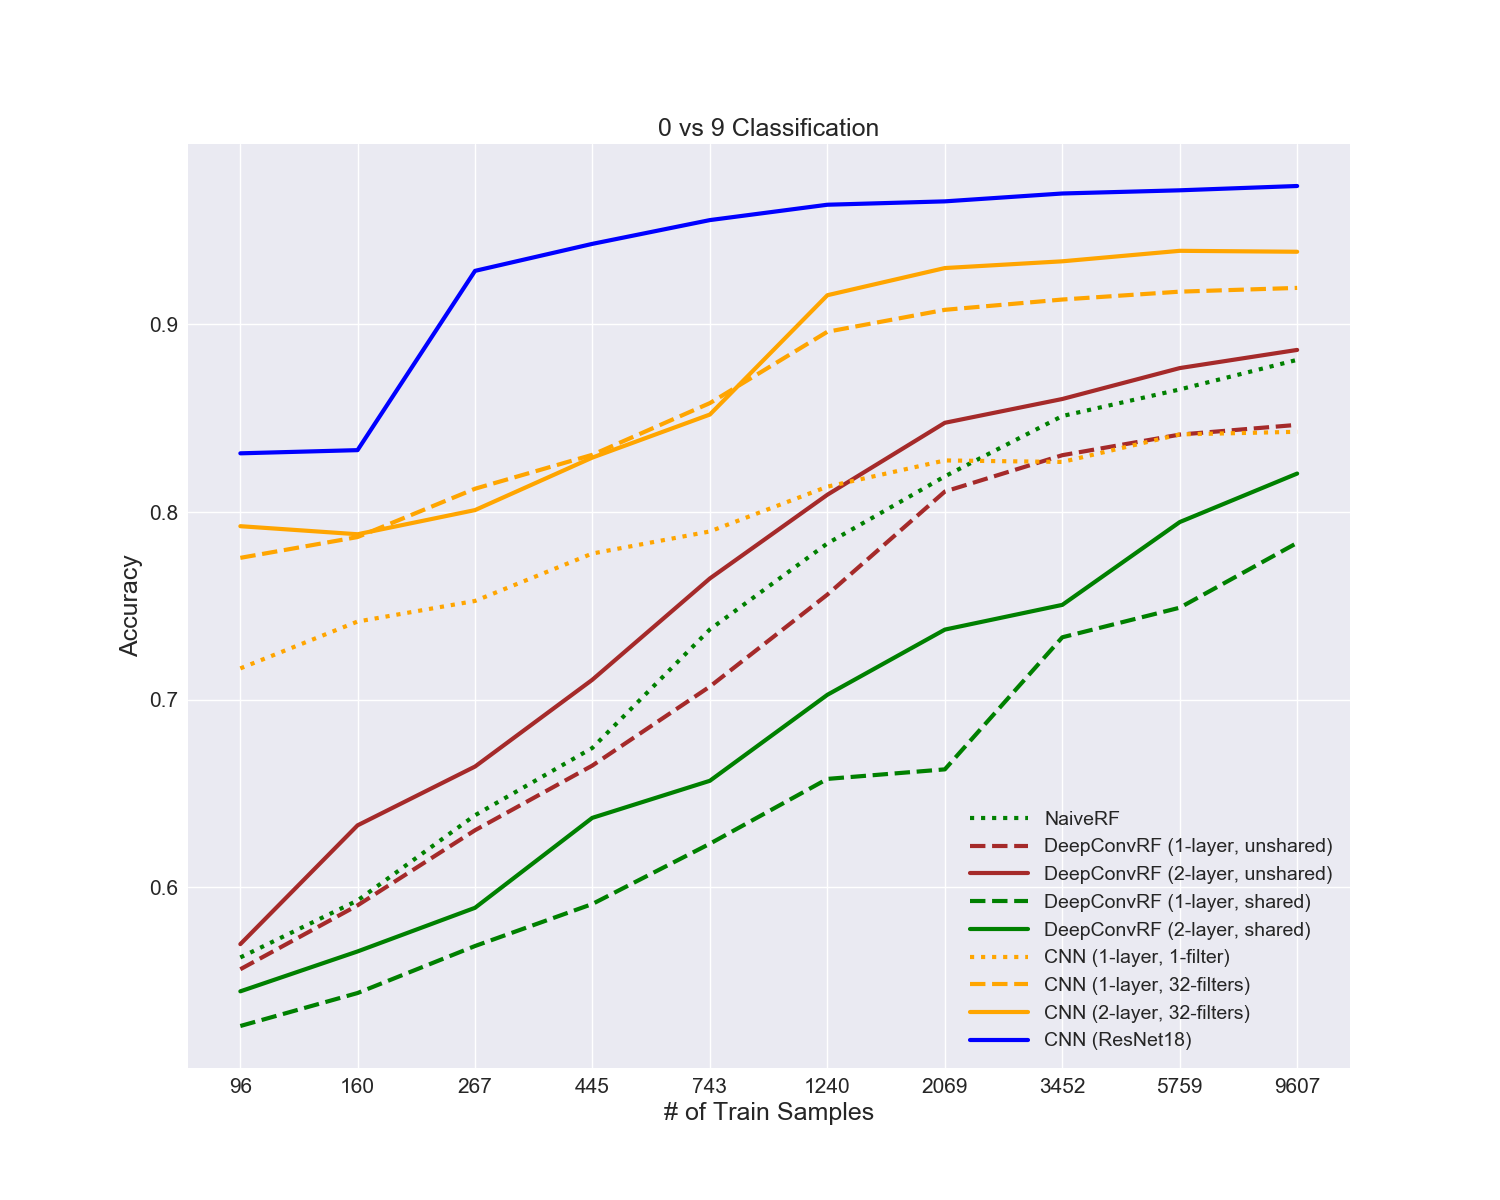
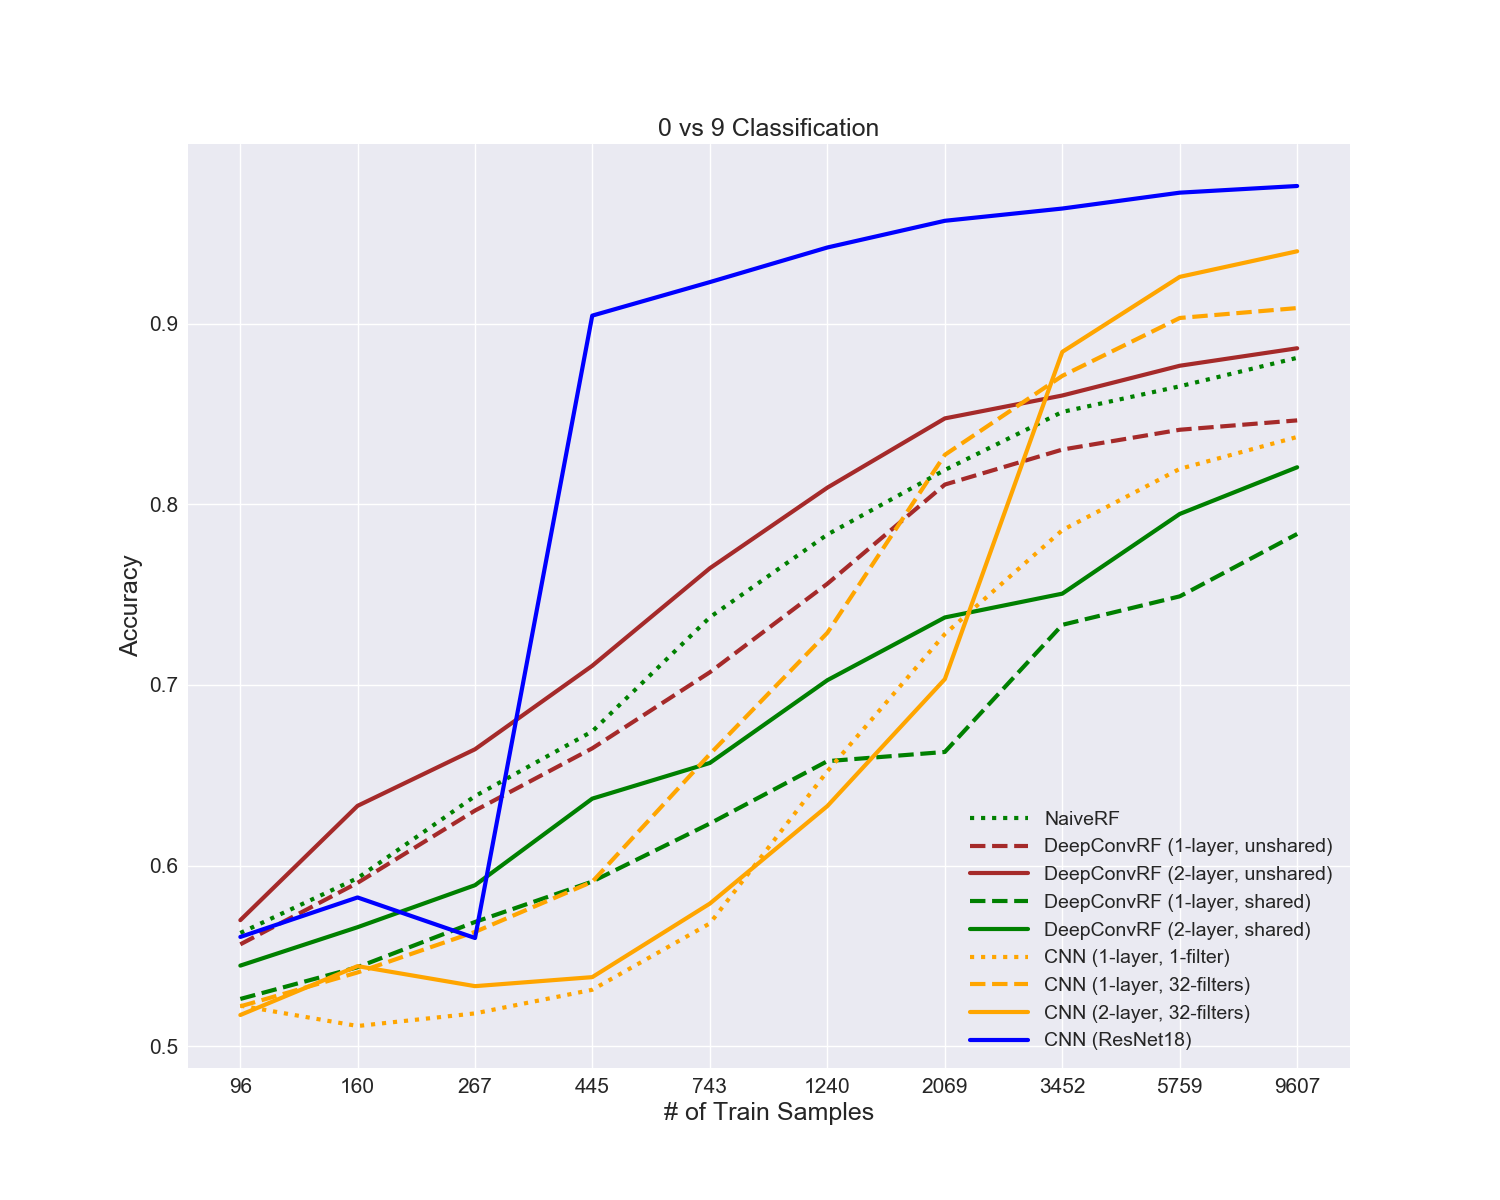
Update svhn 0vs9

diff --git a/experiments/run.py b/experiments/run.py
@@ -26,25 +26,25 @@ warnings.filterwarnings("ignore")
 # Settings
 ##############################################################################################################
 
-####### CIFAR10 ########
-DATASET_NAME = "CIFAR10"
-# TITLE = "Automobile (1) vs Truck(9)"
-
-DATA_PATH = "./data"
-RESULTS_PATH = "results/cifar10/100_percent_data/2vs4/"
-
-CHOOSEN_CLASSES = [2, 4]
-MAX_TRAIN_FRACTION = 1.0
-
-# ####### SVHN ########
-# DATASET_NAME = "SVHN"
-# # TITLE = "5 vs 6"
+# ####### CIFAR10 ########
+# DATASET_NAME = "CIFAR10"
+# # TITLE = "Automobile (1) vs Truck(9)"
 #
 # DATA_PATH = "./data"
-# RESULTS_PATH = "results/svhn/5vs6/"
+# RESULTS_PATH = "results/cifar10/100_percent_data/5vs7/"
 #
-# CHOOSEN_CLASSES = [5, 6]
+# CHOOSEN_CLASSES = [5, 7]
 # MAX_TRAIN_FRACTION = 1.0
+
+####### SVHN ########
+DATASET_NAME = "SVHN"
+TITLE = "0 vs 9"
+
+DATA_PATH = "./data"
+RESULTS_PATH = "results/svhn/0vs9/"
+
+CHOOSEN_CLASSES = [0, 9]
+MAX_TRAIN_FRACTION = 1.0
 
 # ####### FashionMNIST ########
 # DATASET_NAME = "FashionMNIST"
@@ -185,19 +185,19 @@ if __name__ == '__main__':
 
     script_start = time.time()
 
-    # # Naive RF
-    # run_experiment(run_naive_rf, "naive_rf_acc_vs_n", "Naive RF")
-    #
-    # # # Naive RerF
-    # # run_experiment(run_naive_rerf, "naive_rf_pyrerf_acc_vs_n", "Naive RF (pyrerf)")
-    #
-    # # DeepConvRF Unshared
-    # run_experiment(run_one_layer_deep_conv_rf_unshared, "deep_conv_rf_old_acc_vs_n", "DeepConvRF (1-layer, unshared)")
-    # run_experiment(run_two_layer_deep_conv_rf_unshared, "deep_conv_rf_old_two_layer_acc_vs_n", "DeepConvRF (2-layer, unshared)")
-    #
-    # # DeepConvRF Shared
-    # run_experiment(run_one_layer_deep_conv_rf_shared, "deep_conv_rf_acc_vs_n", "DeepConvRF (1-layer, shared)")
-    # run_experiment(run_two_layer_deep_conv_rf_shared, "deep_conv_rf_two_layer_acc_vs_n", "DeepConvRF (2-layer, shared)")
+    # Naive RF
+    run_experiment(run_naive_rf, "naive_rf_acc_vs_n", "Naive RF")
+
+    # # Naive RerF
+    # run_experiment(run_naive_rerf, "naive_rf_pyrerf_acc_vs_n", "Naive RF (pyrerf)")
+
+    # DeepConvRF Unshared
+    run_experiment(run_one_layer_deep_conv_rf_unshared, "deep_conv_rf_old_acc_vs_n", "DeepConvRF (1-layer, unshared)")
+    run_experiment(run_two_layer_deep_conv_rf_unshared, "deep_conv_rf_old_two_layer_acc_vs_n", "DeepConvRF (2-layer, unshared)")
+
+    # DeepConvRF Shared
+    run_experiment(run_one_layer_deep_conv_rf_shared, "deep_conv_rf_acc_vs_n", "DeepConvRF (1-layer, shared)")
+    run_experiment(run_two_layer_deep_conv_rf_shared, "deep_conv_rf_two_layer_acc_vs_n", "DeepConvRF (2-layer, shared)")
 
     # # DeepConvRerF Shared
     # run_experiment(run_one_layer_deep_conv_rerf_shared, "deep_conv_rf_pyrerf_acc_vs_n", "DeepConvRF (1-layer, shared, pyrerf)")
